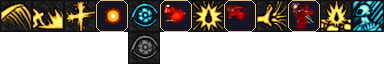
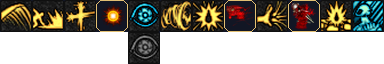
feat: 嗜魂封魔斩的图标取官方图集 176/177；漩涡改成"中间最粗、两端收细"的纺锤
图标：业主点名 dnf_skillicon_atlas.png 的 176-177。哪一个是彩的按切片 70 的老办法量：
176 均值 (148,119,50) 色度 97.9、177 (84,84,84) 色度 0.0——和 134/135、78/79 是同一对规律。
`import_dnf_art.py` 的整段入口还挂在已经不在了的 c_swordman.img 上，改调 build_icons() 重烘。

漩涡：业主说「还是太高了」，但包围盒量出来是对的（1.44 对参考 1.49）。沿长度量顶端剖面
才看见真正的问题——参考是**中间最粗、两端收细**（顶端从 0.89 爬到 1.51 又落回 1.29），
本作是一路长到远端（远端 1.55/1.60 顶在那里）。改成过 (近 10, 中 170, 远 120) 三点的
二次曲线。第一次写这条曲线时公式抄错了（没穿过中点，中段掉到 4），当场用 node 验了一遍。

Changed region(s): [[0.4062, 0.0, 0.5, 0.5]]

diff --git a/src/render.js b/src/render.js
@@ -659,7 +659,17 @@
         loops: 13,
         lag: 2,
         nearX: 72, farX: 189,
-        nearSize: 70, farSize: 182,
+        /*
+         * **A spindle is thickest in the middle, and this is the number that says
+         * so.** The first version grew the loops all the way out (70 near, 182
+         * far), which put the tallest rings at the far end - so the top edge ran
+         * 1.55 and 1.60 Slayer-heights up out there where the reference's runs
+         * 1.29 and 1.38. Measured along the length, the reference's top edge
+         * climbs from 0.89 at his hand, peaks at **1.51 half way along**, and
+         * comes back to about 1.3: a lemon, not a cone. These three are the near,
+         * middle and far sizes and the curve through them is quadratic.
+         */
+        sizes: [10, 170, 120],
         /*
          * **The pack's one loop is a tall hairpin, and the reference's rings are
          * not.** Overlaying the two masks at the same scale is what showed it:
@@ -1174,6 +1184,17 @@
    * #153-#156) - the collapse runs from the release, which is the one thing here
    * the reference has no frame for because its cast was never let go of early.
    */
+  /** The quadratic through a spindle's near, middle and far loop sizes. */
+  function sizeAlong(sizes, u) {
+    var near = sizes[0];
+    var middle = sizes[1];
+    var far = sizes[2];
+    /* Through (0, near), (0.5, middle) and (1, far). */
+    var b = 4 * (middle - near) - (far - near);
+    var a = far - near - b;
+    return a * u * u + b * u + near;
+  }
+
   function drawBloodVortex(ctx, state, sprites, player, elapsed) {
     var spec = EFFECT.vortex.bloodyRave;
     var channel = EFFECT.channel.bloodyRave;
@@ -1193,7 +1214,7 @@
     for (var loop = 0; loop < spec.loops; loop += 1) {
       var u = (loop + 1) / spec.loops;
       if (u > grown + 0.001) break;
-      var size = spec.nearSize + (spec.farSize - spec.nearSize) * u;
+      var size = sizeAlong(spec.sizes, u);
       var x = spec.nearX + (spec.farX - spec.nearX) * u;
       var w = size * spec.wide;
       var h = size * spec.tall;

diff --git a/assets/import_dnf_art.py b/assets/import_dnf_art.py
@@ -88,8 +88,16 @@ ICON_FRAMES = {
     # 79 is the same art without it, kept in case 暴走 ever wants a standing
     # badge the way the stance has one.
     "berserk": 78,
+    # 嗜魂封魔斩: the owner's pick, 2026-10-05, off dnf_skillicon_atlas.png -
+    # **176/177**, the same pair shape as 血之狂暴's 134/135 and 暴走's 78/79.
+    # Which of the two is the coloured one is measured, not guessed: 176 reads
+    # mean (148,119,50) at chroma 97.9 and 177 reads (84,84,84) at chroma 0.0,
+    # so 176 is the hotbar icon and 177 is kept as its grey twin. The art is the
+    # move's own tell - a nest of gold loops, the same shape the vortex is drawn
+    # from (`particle.img`).
+    "bloodyRave": 176,
 }
-# 血气之刃 / 嗜魂封魔斩 / 嗜血 / 血魔 are Berserker moves the owner picked no
+# 血气之刃 / 嗜血 / 血魔 are Berserker moves the owner picked no
 # atlas frame for, and the frames that used to sit in those slots belonged to the
 # 鬼泣/剑魂 skills they replaced. They keep the effect-thumbnail fallback below
 # until the owner picks frames off dnf_skillicon_atlas.png with --icons.
